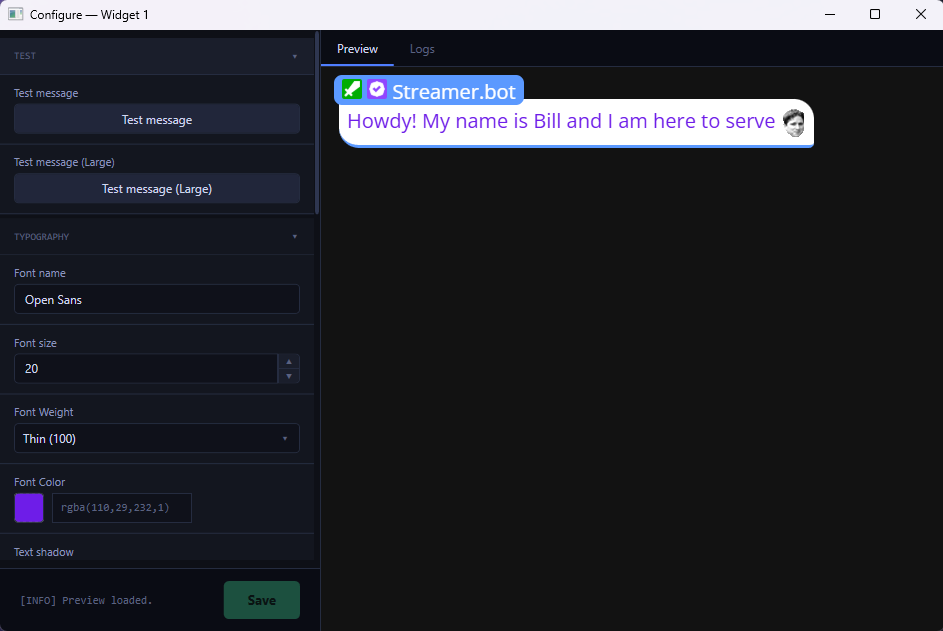
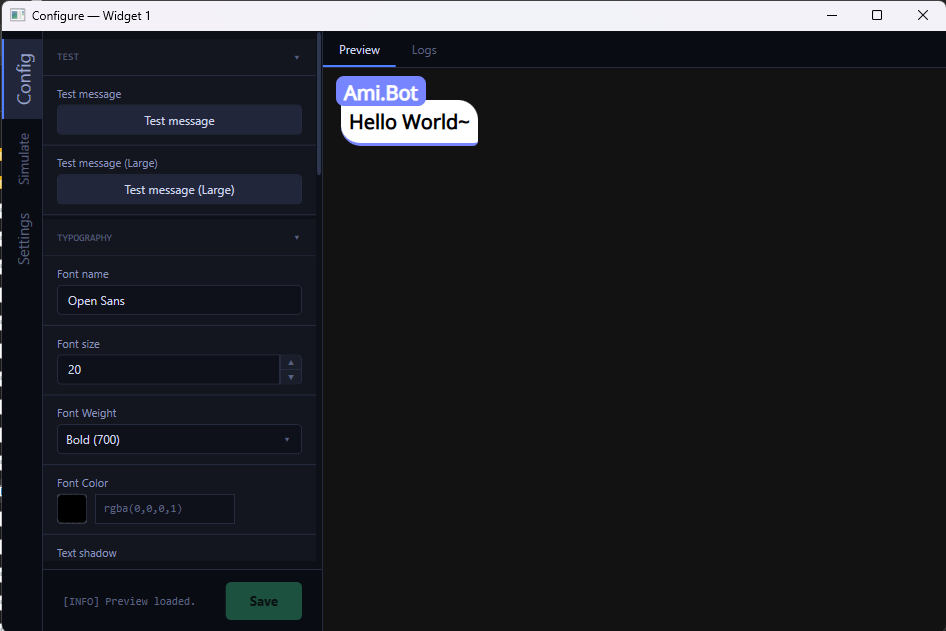
Update ReadMe file -added additional screenshot for Simulate events page -added in line about new features

diff --git a/README.md b/README.md
@@ -14,6 +14,8 @@ This tool migrates your existing SE overlays so they live locally on your machin
 
 ![Application UI - Edit Configuration](Images/application_ui_2.png)
 
+![Application UI - Simulate Events](Images/application_ui_3.png)
+
 ---
 
 ## Architecture
@@ -72,7 +74,8 @@ flowchart TB
 ### Widget Management
 - Create and configure multiple widgets.
 - Each widget tracks its own files and configurations independently.
-- Tweak configuration settings and see your changes in the live preview.
+- Adjust configuration settings and see your changes in the live preview.
+- Test your widget with simulated events without needing to trigger real Twitch events.
 
 ### StreamerBot Event Bridge
 - A `streamerBotEvents.js` file is generated automatically alongside your widget files. This bridges StreamerBot's event system to your overlay so it can respond to stream events (follows, subs, etc.) without any manual wiring.
